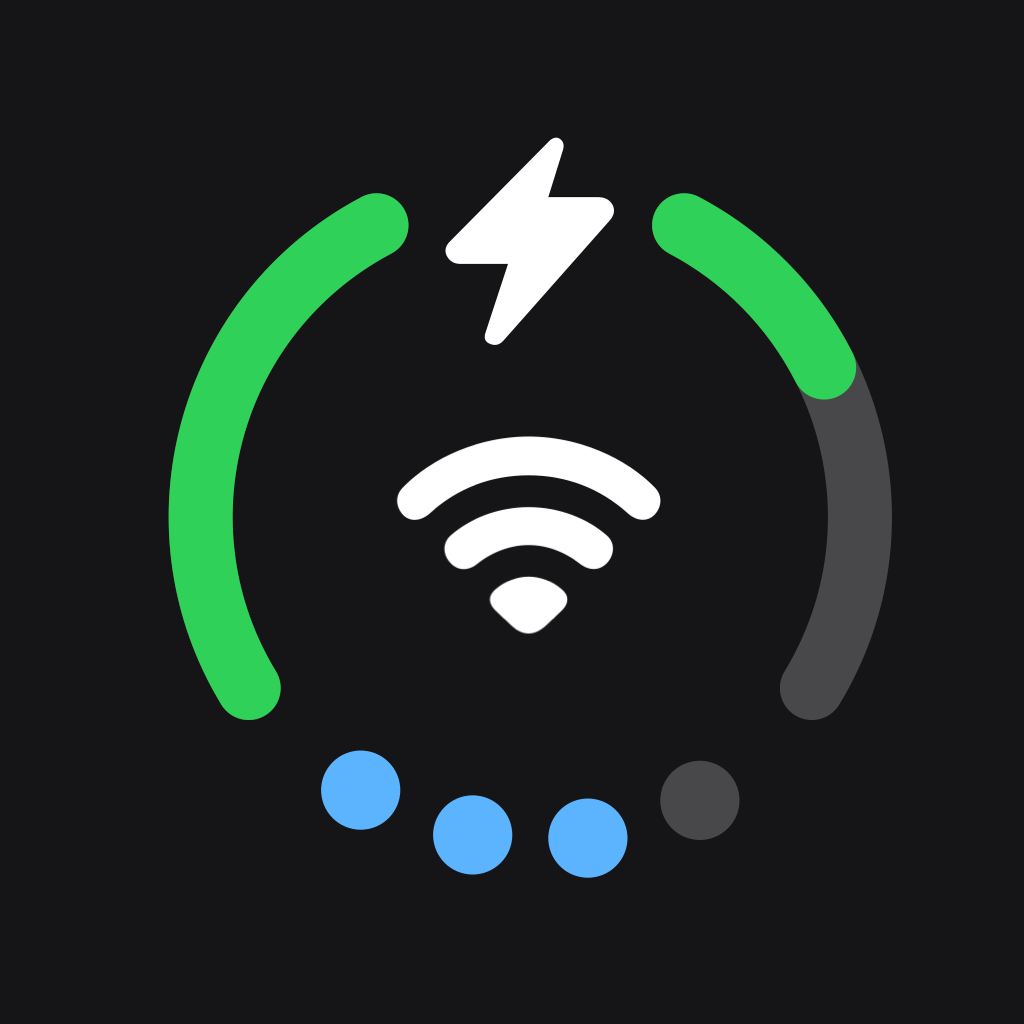
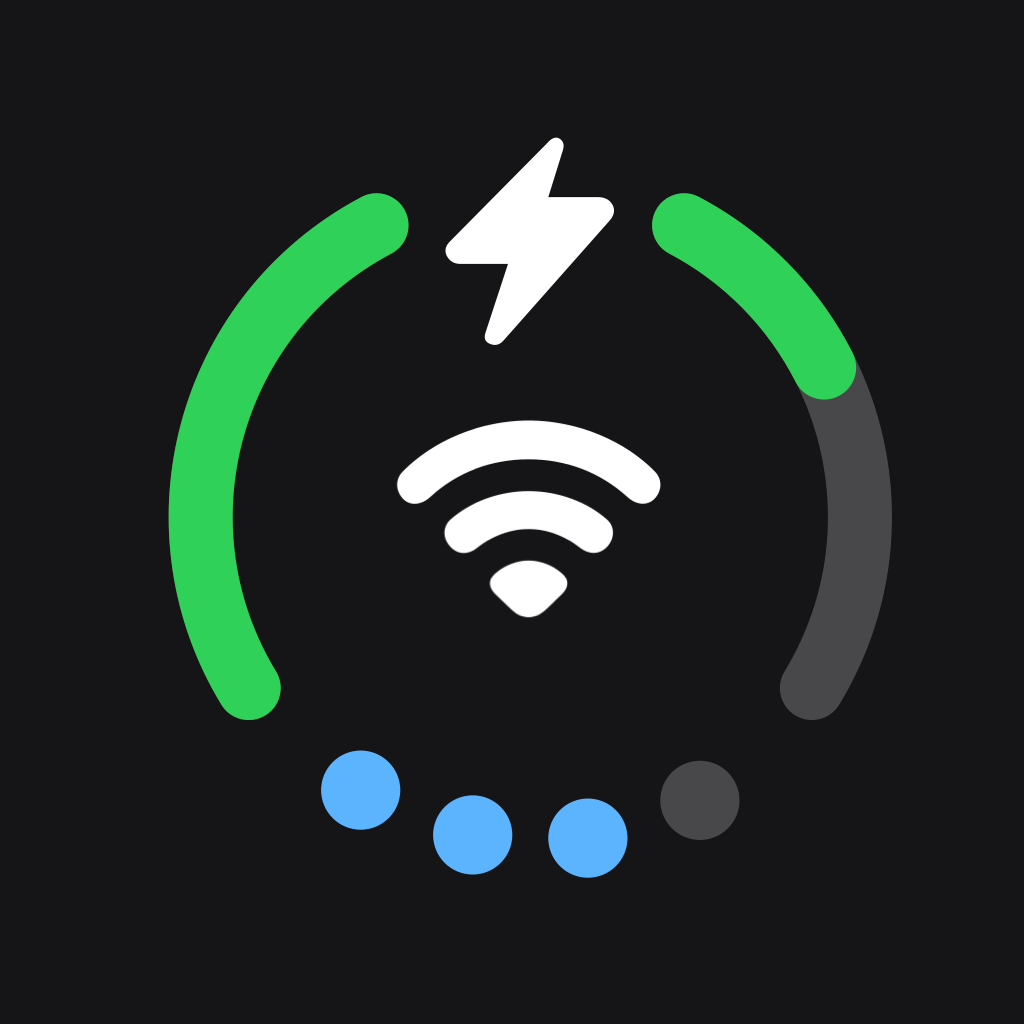
fix(ui): pin the Bluetooth drop-down widths
The source menu's width could follow its loading device list, so it
jumped when switching to Bluetooth. Pin both menus to the same ideal
width. Also refresh the committed app-icon artwork and its fingerprinted
baselines after the centre anchor moved.

Changed region(s): [[0.375, 0.4062, 0.6562, 0.625]]

diff --git a/Tests/StatusTrioCoreTests/StaticSymbolRasterDiagnostics.swift b/Tests/StatusTrioCoreTests/StaticSymbolRasterDiagnostics.swift
@@ -9,18 +9,13 @@ func staticSymbolRasterBaselineFingerprints() -> Set<String>? {
     case (26, _, _):
[1 lines of base64/hex data omitted]
     case (27, 50, 47):
-        // macOS 27.0 and 27.2 rasterize the same symbol metrics differently.
-        // Keep every bounded local variant observed for this size; the committed
-        // artwork itself is still checked against these exact system-produced
-        // pixels. The third hash is the same committed scene rasterised after the
-        // full suite has already initialised AppKit: an offline comparison showed
-        // the only difference from the other variants is the SF Symbol glyph
-        // raster (155 px); every non-symbol pixel is byte-identical. It is pinned,
-        // not tolerated, so a deliberate artwork change still fails.
+        // The centre slot moved onto the ring's centre, so the scene raster
+        // changed with it; these are the two AppKit-initialisation variants
+        // observed for the current artwork. Re-record with
+        // STATUS_TRIO_STATIC_ICON_DIAGNOSTICS=1 on a new environment.
         return [
[5 lines of base64/hex data omitted]
         ]
     case (27, 51, 46):
[1 lines of base64/hex data omitted]

diff --git a/Tests/StatusTrioCoreTests/AppIconPreviewTests.swift b/Tests/StatusTrioCoreTests/AppIconPreviewTests.swift
@@ -37,22 +37,14 @@ final class AppIconPreviewTests: XCTestCase {
     private static let approvedArtworkFingerprints: [String: Set<ArtworkFingerprint>] = [
         "AppIcon-light.png": [
             ArtworkFingerprint(
[2 lines of base64/hex data omitted]
-            ),
-            ArtworkFingerprint(
[4 lines of base64/hex data omitted]
             )
         ],
         "AppIcon-dark.png": [
             ArtworkFingerprint(
[2 lines of base64/hex data omitted]
-            ),
-            ArtworkFingerprint(
[4 lines of base64/hex data omitted]
             )
         ]
     ]

diff --git a/Sources/StatusTrioCore/UI/Settings/MiddleIconSettingsGroup.swift b/Sources/StatusTrioCore/UI/Settings/MiddleIconSettingsGroup.swift
@@ -248,6 +248,7 @@ private struct MiddleBluetoothIconOptions: View {
             .pickerStyle(.menu)
             .labelsHidden()
             .frame(width: 190, alignment: .trailing)
+            .fixedSize(horizontal: true, vertical: false)
             .accessibilityLabel(localization.string(.settingsBluetoothIconChoice))
             .accessibilityIdentifier("bluetooth.audioIconChoice")
         }
@@ -283,6 +284,7 @@ private struct MiddleBluetoothIconOptions: View {
             }
             .labelsHidden()
             .frame(width: 190, alignment: .trailing)
+            .fixedSize(horizontal: true, vertical: false)
             .accessibilityIdentifier("bluetooth.networkIconSource")
         }
     }

diff --git a/docs/superpowers/specs/2026-11-02-middle-icon-picker-design.md b/docs/superpowers/specs/2026-11-02-middle-icon-picker-design.md
@@ -215,3 +215,19 @@ if source != .network && prioritizesNetworkErrors && isNetworkOffline(...) {
 3. 蓝牙子选项默认「跟随当前音频输出」。
 4. 数字缩放继续复用 `wifiScale`，本次不新增独立缩放项。
 5. 蓝牙「音量蓝色」与「符号缩放」留在蓝牙页，不随中间图标分组迁移。
+
+## 9. 实现期间的细化（2026-11-02）
+
+评审后按实际视觉反馈调整，最终形态以本节为准：
+
+- **来源选择器用图片选择器，不是下拉框。** 五个来源各自渲染一张真实状态图标，
+  只替换中间内容；方块外观复用「外环线条粗细」那排的圆角、1px 描边和选中环。
+- **大小统一为「中间图标大小」。** Wi‑Fi 符号、蓝牙设备图标、输入法、数字共用
+  一个缩放值（持久化仍用 `wifiSymbolScale`，旧 `bluetoothSymbolScale` 迁移后删除）；
+  该值在 `iconAppearancePublisher` 末端统一折叠，避免一次改动发布两个半成品。
+- **网络图标样式搬入同一分组。** 有线/热点/临时连接/互联网共享的 Wi‑Fi 图标变体
+  只在选中「网络」时显示；「网络」页只保留本机 IP 开关。
+- **中间文字基准略低于符号。** 同一缩放值下，电量/功耗数字按符号的 90% 绘制，
+  避免数字看起来比 Wi‑Fi/蓝牙字形更重。
+- **中间内容锚在圆环圆心。** 原来锚在 `y=64`，圆环几何圆心是 `y=61.49`，
+  内容偏低约 2.5 单位；现在符号和文字都锚在圆心。
